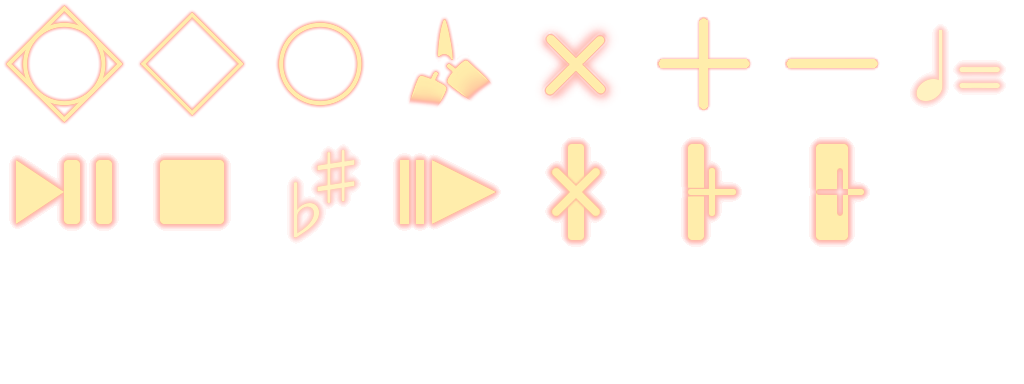
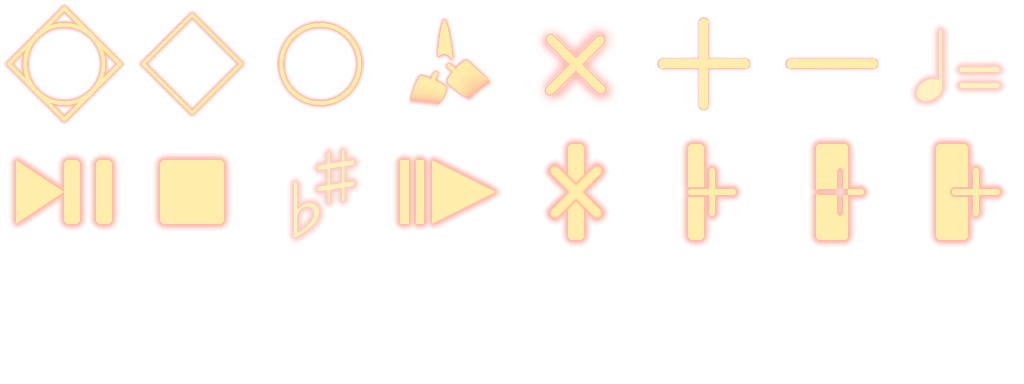
-

Changed region(s): [[0.9062, 0.3438, 1.0, 0.6562], [0.5312, 0.5312, 0.5938, 0.5938], [0.5312, 0.4062, 0.5938, 0.4688]]

diff --git a/seq.html b/seq.html
@@ -25,11 +25,11 @@
 		.nWrapper *{color:#fff8;}.nWrapper p{width:14px;height:14px;margin:1px;background:#fea;position:absolute;left:0;border-radius:33%;box-shadow:0 0 4px #888;pointer-events:none;}
 		.nWrapper .nWrapper{background:#0002;}.nWrapper .nWrapper:first-child{margin-left:8px;}.nWrapper .nWrapper:last-child{margin-right:8px;}
 
-		.uiPanel{float:left;clear:left;}
+		.uiPanel{float:right;clear:none;}
 		.grid{display:inline-block;width:48px;height:48px;margin:2px;background:#4448;color:#caf0f6;text-shadow:0 0 4px #688;border:none;border-radius:25%;box-shadow:0 0 8px #4448;text-align:center;vertical-align:middle;outline:none;font-size:18px;font-family:"M PLUS Rounded 1c",sans-serif;padding:0;touch-action:manipulation;}
 		.bg{background-image:url(img/seq.png);background-size:800% auto;background-position:var(--bp);}
 
-		.kbPanel{position:relative;width:100%;max-width:360px;float:right;}.kbPanel:before{content:"";display:block;padding-top:60%;}
+		.kbPanel{position:relative;width:100%;max-width:360px;float:left;clear:none;}.kbPanel:before{content:"";display:block;padding-top:60%;}
 		#kb{position:absolute;top:0;left:0;right:0;bottom:0;perspective:1000px;background:#0004;border-radius:8px;overflow:hidden;}#kb input{position:absolute;display:none;}#kb>div{height:33.3%;margin:0;}
 		#kb p{display:inline-block;width:20%;height:100%;margin:0;position:relative;}
 		#kb p::before,#kb p::after{content:"";display:block;width:84%;height:84%;margin:8%;border-radius:20%;position:absolute;}
@@ -39,8 +39,11 @@
 		#kb p:nth-child(2n):not(.c)::after{background-position:-200% 0;}
 		#kb p:nth-child(4n):not(.c)::after{background-position:-100% 0;}
 		#kb input:checked+p::after{transform:rotateY(360deg)scale(.8);}
+
+		#uiflip:checked~* .uiPanel{float:left;}#uiflip:checked~* .kbPanel{float:right;}
 	</style>
 	<style id="sty"></style>
+	<input type="checkbox" id="uiflip" style="display:none;">
 
 	<div class="dispPanel">
 		<div id="dispScr"><div id="dispCur"></div><div id="disp"></div></div>
@@ -54,7 +57,8 @@
 				</button><button class="grid bg" style="--bp:-300% -100%;" onclick="tstep(1);"></button><br>
 				         <button class="grid bg" style="--bp:-400% -100%;">
 				</button><button class="grid bg" style="--bp:-500% -100%;">
-				</button><button class="grid bg" style="--bp:-600% -100%;"></button>
+				</button><button class="grid bg" style="--bp:-600% -100%;">
+				</button><button class="grid bg" style="--bp:-700% -100%;"></button>
 			</div>
 		</div>
 		<div class="kbPanel">
@@ -66,13 +70,12 @@
 		</div>
 		<div class="uiPanel">
 			<div>
-				<button onclick="main.bpm-=6;Tone.Transport.bpm.value-=6;bpm_.value=main.bpm;" class="grid bg" style="--bp:-600% 0;">
-				</button><input id="bpm_" class="grid bg" onchange="bpmset();" style="--bp:-700% 0;"></input><button onclick="main.bpm+=6;Tone.Transport.bpm.value+=6;bpm_.value=main.bpm;" class="grid bg" style="--bp:-500% 0;"></button>
-			</div>
-			<div>
-				<button onclick="sc_.value=--main.sc;" class="grid bg" style="--bp:-600% 0;">
+				         <button onclick="main.bpm-=6;Tone.Transport.bpm.value-=6;bpm_.value=main.bpm;" class="grid bg" style="--bp:-600% 0;">
+				</button><input id="bpm_" class="grid bg" onchange="bpmset();" style="--bp:-700% 0;"></input><button onclick="main.bpm+=6;Tone.Transport.bpm.value+=6;bpm_.value=main.bpm;" class="grid bg" style="--bp:-500% 0;">
+				</button><br><button onclick="sc_.value=--main.sc;" class="grid bg" style="--bp:-600% 0;">
 				</button><input id="sc_" class="grid bg" onchange="scset();" style="--bp:-200% -100%;"></input><button onclick="sc_.value=++main.sc;" class="grid bg" style="--bp:-500% 0;"></button>
 			</div>
+			<label for="uiflip" class="grid"></label>
 		</div>
 	</div>
 
@@ -167,7 +170,7 @@
 
 
 				main=sample[slc.value];
-				log.textContent='build: 2101225';
+				log.textContent='build: 21012350';
 
 
 		/////from gui
